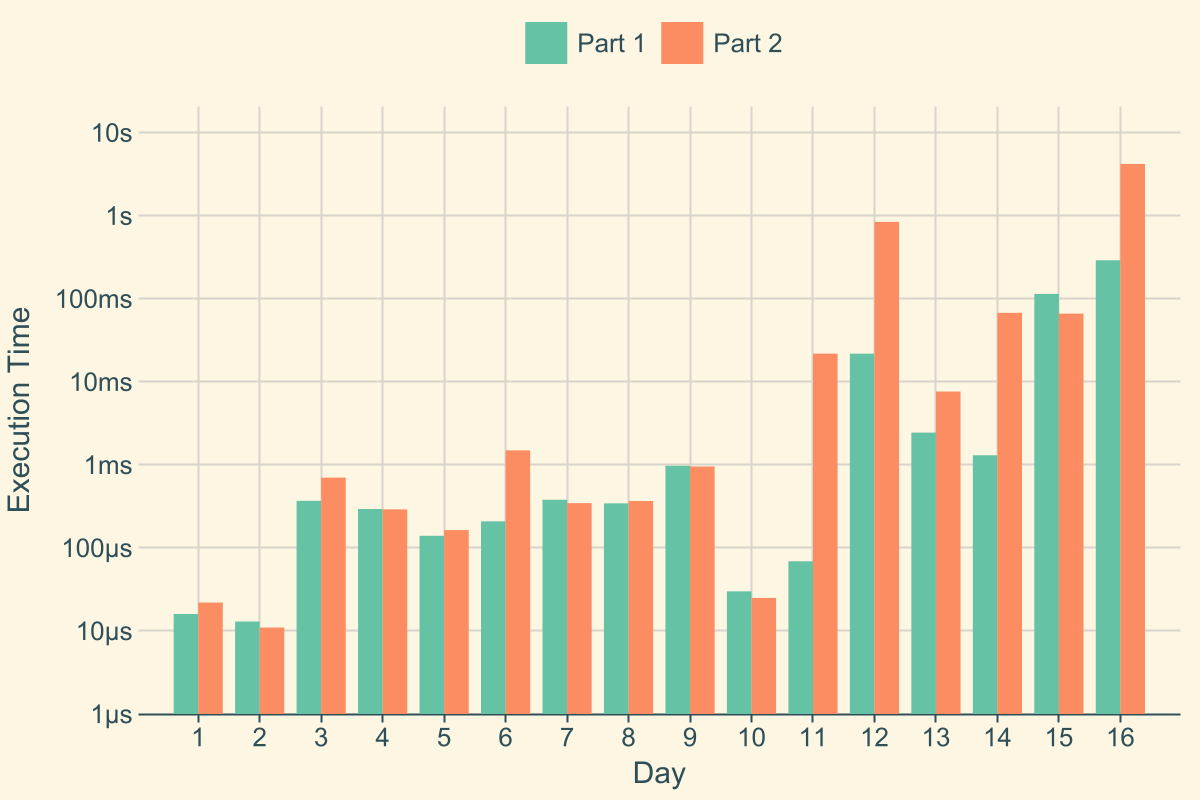
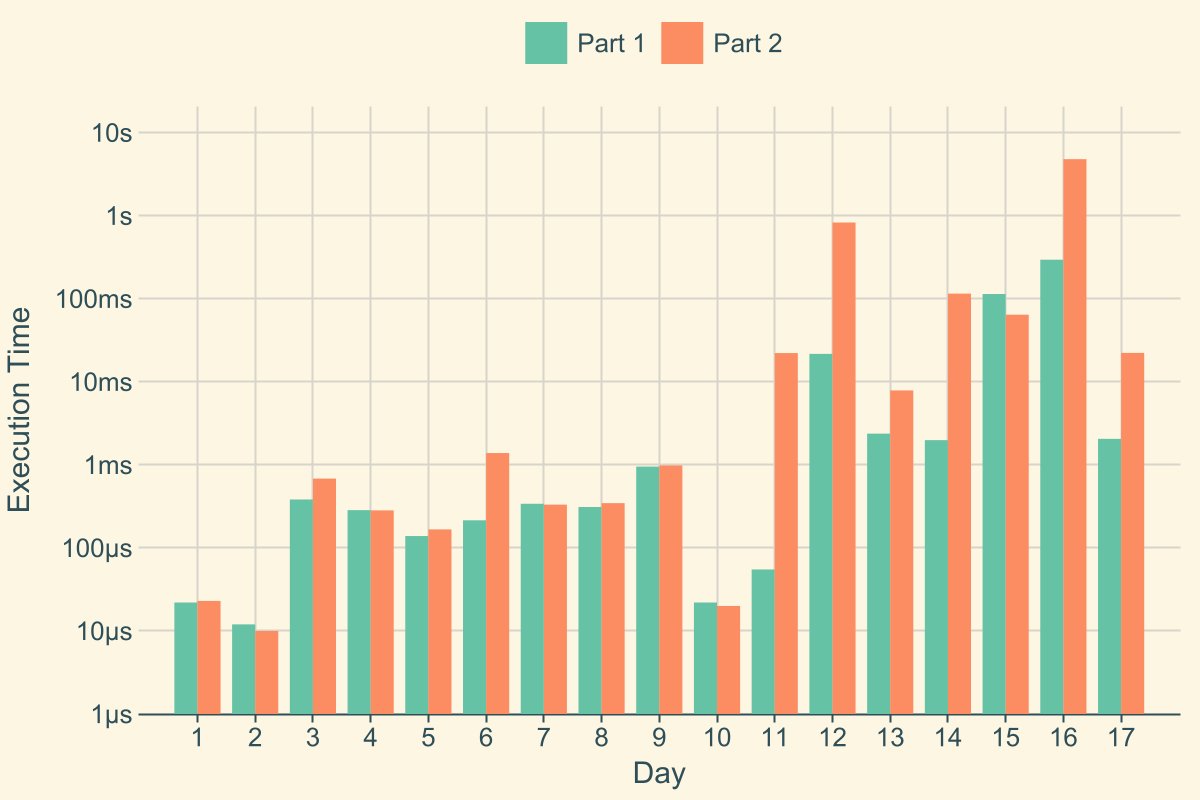
17 initial

Changed region(s): [[0.1233, 0.1875, 0.9558, 0.9375], [0.925, 0.9062, 0.9558, 0.9375]]

diff --git a/src/day17.rs b/src/day17.rs
@@ -1,0 +1,342 @@
+use std::cell::RefCell;
+use std::cmp::min;
+use std::collections::{HashMap, HashSet};
+use std::fmt::{Debug, Formatter};
+use std::ops::{Add, Neg, Sub};
+use std::usize;
+
+use crate::harness::{Day, Part};
+
+pub fn day17() -> Day<u32, u64> {
+    Day::new(17, Box::new(Part1 {}), Box::new(Part2 {}))
+}
+
+pub struct Part1;
+
+impl Part<u32> for Part1 {
+    fn expect_test(&self) -> u32 {
+        3068
+    }
+
+    fn solve(&self, input: &Vec<String>) -> u32 {
+        let vec = parse_input(input);
+        play(vec, 2022) as u32
+    }
+}
+
+pub struct Part2;
+
+impl Part<u64> for Part2 {
+    fn expect_test(&self) -> u64 {
+        1514285714288
+    }
+
+    fn solve(&self, input: &Vec<String>) -> u64 {
+        let vec = parse_input(input);
+        play(vec, 1000000000000)
+    }
+}
+
+fn play(directions: Vec<Point>, steps: u64) -> u64 {
+    let mut direction_index = 0;
+    let mut next_direction = move || {
+        let result = directions[direction_index].clone();
+        direction_index = (direction_index + 1) % directions.len();
+        result
+    };
+
+    let rocks = vec![RockShape::a(), RockShape::b(), RockShape::c(), RockShape::d(), RockShape::e()];
+    let occupied_per_rock_cycle: u32 = rocks.iter().map(|r| r.points.len() as u32).sum();
+    let n_rocks = rocks.len();
+    let mut rock_index = 0;
+    let mut next_rock = move || {
+        let result = rocks[rock_index].clone();
+        rock_index = (rock_index + 1) % rocks.len();
+        result
+    };
+
+    let map = Map::new();
+
+    let mut step = |search_cycles: bool| -> Option<usize> {
+        if search_cycles {
+            if let Some(cycle) = map.detect_cycle() {
+                return Some(cycle);
+            }
+        }
+
+        let rock = Rock::new(map.insertion_origin(), next_rock());
+
+        loop {
+            let direction = next_direction();
+            let can_be_pushed = rock.shape.points.iter().map(|p| *p + *rock.position.borrow() + direction).all(|p| {
+                !map.is_occupied(&p)
+            });
+            if can_be_pushed {
+                rock.translate(direction);
+            }
+
+            let can_fall = rock.shape.points.iter().map(|p| *p + *rock.position.borrow() + Point::DOWN).all(|p| {
+                !map.is_occupied(&p)
+            });
+            if can_fall {
+                rock.translate(Point::DOWN);
+            } else {
+                rock.shape.points.iter().map(|p| *p + *rock.position.borrow()).for_each(|p| {
+                    map.insert(p);
+                });
+                break;
+            }
+        }
+
+        None
+    };
+
+
+    let maybe_cycle =
+        (0..steps)
+            .find_map(|s| step(true).map(|cycle_len| (s, cycle_len)));
+
+    if let Some((n_steps, cycle_len)) = maybe_cycle {
+        let remaining_steps = steps - n_steps;
+
+        let occupied_in_last_rows = map.count_occupied_in_last_rows(cycle_len);
+        let cycle_len = ((occupied_in_last_rows / occupied_per_rock_cycle) as u64) * n_rocks as u64;
+
+        let residue = remaining_steps % cycle_len;
+
+        for _ in 0..residue {
+            step(false);
+        }
+
+        let y_before_cycle = *map.min_y.borrow();
+
+        for _ in 0..cycle_len {
+            step(false);
+        }
+
+        let y_after_cycle = *map.min_y.borrow();
+
+        let y_per_cycle = y_after_cycle - y_before_cycle;
+
+
+        let i = remaining_steps - residue;
+        let remaining_cycles = ((i) / cycle_len) as i64;
+        // println!(" occupied_in_last_rows     {}", occupied_in_last_rows);
+        // println!(" occupied_per_rock_cycle   {}", occupied_per_rock_cycle);
+        // println!(" steps_before_cycle_found  {}", n_steps);
+        // println!(" cycle_len                 {}", cycle_len);
+        // println!(" residue                   {}", residue);
+        // println!(" y_before_cycle            {}", y_before_cycle);
+        // println!(" y_after_cycle             {}", y_after_cycle);
+        // println!(" remaining_cycles          {}", remaining_cycles);
+        // println!(" y_per_cycle               {}", y_per_cycle);
+
+        1 - (y_before_cycle + remaining_cycles * y_per_cycle) as u64
+    } else {
+        let r = *map.min_y.borrow();
+        (1 - (r)) as u64
+    }
+}
+
+fn parse_input(input: &Vec<String>) -> Vec<Point> {
+    input
+        .first()
+        .unwrap()
+        .trim()
+        .chars()
+        .map(|c| match c {
+            '<' => Point::LEFT,
+            '>' => Point::RIGHT,
+            _ => panic!(),
+        })
+        .collect()
+}
+
+struct Map {
+    raw: RefCell<Vec<u8>>,
+    min_y: RefCell<i64>,
+}
+
+impl Map {
+    pub fn new() -> Self {
+        Self { raw: RefCell::new(vec![]), min_y: RefCell::new(1) }
+    }
+
+    fn is_occupied(&self, p: &Point) -> bool {
+        p.x < 0 || p.x > 6 || p.y > 0 || self.raw.borrow().get(-p.y as usize).map(|u| u & (1 << (p.x as u8)) != 0).unwrap_or(false)
+    }
+
+    fn insertion_origin(&self) -> Point {
+        p(2, *self.min_y.borrow() - 4)
+    }
+
+    fn insert(&self, p: Point) {
+        let new_min_y = min(*self.min_y.borrow(), p.y);
+
+        for _ in 0..-(new_min_y - *self.min_y.borrow()) {
+            self.raw.borrow_mut().push(0);
+        }
+
+        self.min_y.replace(new_min_y);
+
+        let i = &mut self.raw.borrow_mut()[-p.y as usize];
+        *i = *i | (1 << p.x)
+    }
+
+    fn count_occupied_in_last_rows(&self, n: usize) -> u32 {
+        self.raw.borrow().iter()
+            .rev()
+            .take(n)
+            .map(|u| u.count_ones())
+            .sum()
+    }
+
+    fn detect_cycle(&self) -> Option<usize> {
+        let arr = self.raw.borrow();
+        let y0 = arr.len() - 1;
+
+        if arr.len() < 100 {
+            return None;
+        }
+
+        'outer: for cycle_length in (5..(arr.len() / 4)).rev() {
+            for i in 0..cycle_length {
+                let i1 = arr[y0 - i];
+                let i2 = arr[y0 - i - cycle_length];
+                let i3 = arr[y0 - i - cycle_length * 2];
+                // println!();
+                // println!("{}", arr.len());
+                // println!("{}", cycle_length);
+                let i4 = arr[y0 - i - cycle_length * 3];
+
+                if i1 != i2 || i2 != i3 || i3 != i4 {
+                    continue 'outer;
+                }
+            }
+
+            return Some(cycle_length);
+        }
+
+        None
+    }
+}
+
+impl Debug for Map {
+    fn fmt(&self, f: &mut Formatter<'_>) -> std::fmt::Result {
+        let mut result = String::new();
+        for y in (*self.min_y.borrow() - 3)..=0 {
+            for x in -1..=7 {
+                if x == -1 || x == 7 {
+                    result.push('|');
+                } else if self.is_occupied(&p(x, y)) {
+                    result.push('#');
+                } else {
+                    result.push('.');
+                }
+            }
+            result.push('\n');
+        }
+
+        result.push_str("+-------+");
+
+
+        write!(f, "{}", result)
+    }
+}
+
+#[derive(Clone)]
+struct RockShape {
+    points: Vec<Point>,
+    width: i64,
+}
+
+impl RockShape {
+    pub fn new(points: Vec<Point>) -> Self {
+        let width = points.iter().map(|p| p.y).max().unwrap();
+
+        Self { points, width }
+    }
+
+    fn a() -> Self { RockShape::new(vec![p(0, 0), p(1, 0), p(2, 0), p(3, 0)]) }
+    fn b() -> Self { RockShape::new(vec![p(1, 0), p(0, -1), p(1, -1), p(2, -1), p(1, -2)]) }
+    fn c() -> Self { RockShape::new(vec![p(0, 0), p(1, 0), p(2, 0), p(2, -1), p(2, -2)]) }
+    fn d() -> Self { RockShape::new(vec![p(0, 0), p(0, -1), p(0, -2), p(0, -3)]) }
+    fn e() -> Self { RockShape::new(vec![p(0, 0), p(1, 0), p(0, -1), p(1, -1)]) }
+}
+
+#[derive(Clone)]
+struct Rock {
+    position: RefCell<Point>,
+    shape: RockShape,
+}
+
+impl Rock {
+    pub fn new(position: Point, shape: RockShape) -> Self {
+        Self { position: RefCell::new(position), shape }
+    }
+
+    fn width(&self) -> i64 {
+        self.shape.width
+    }
+
+    fn min_x(&self) -> i64 {
+        self.position.borrow().x
+    }
+
+    fn max_x(&self) -> i64 {
+        self.position.borrow().x + self.width() - 1
+    }
+
+    fn translate(&self, d: Point) {
+        let new_position = *self.position.borrow() + d;
+        self.position.replace(new_position);
+    }
+}
+
+#[derive(Copy, Clone, Debug, Eq, PartialEq, Hash)]
+struct Point {
+    x: i64,
+    y: i64,
+}
+
+const fn p(x: i64, y: i64) -> Point {
+    Point { x, y }
+}
+
+impl Add<Point> for Point {
+    type Output = Self;
+
+    fn add(self, rhs: Point) -> Self::Output {
+        p(self.x + rhs.x, self.y + rhs.y)
+    }
+}
+
+impl Sub<Point> for Point {
+    type Output = Self;
+
+    fn sub(self, rhs: Point) -> Self::Output {
+        p(self.x - rhs.x, self.y - rhs.y)
+    }
+}
+
+impl Neg for Point {
+    type Output = Self;
+
+    fn neg(self) -> Self::Output {
+        p(-self.x, -self.y)
+    }
+}
+
+impl Point {
+    fn manhattan_distance(&self, rhs: &Self) -> i64 {
+        (self.x - rhs.x).abs() + (self.y - rhs.y).abs()
+    }
+
+    fn swap(&self) -> Self {
+        p(self.y, self.x)
+    }
+
+    const LEFT: Self = p(-1, 0);
+    const RIGHT: Self = p(1, 0);
+    const DOWN: Self = p(0, 1);
+}

diff --git a/src/harness.rs b/src/harness.rs
@@ -43,7 +43,7 @@ impl<R1: AocResult + 'static, R2: AocResult+ 'static> Day<R1, R2> {
     fn run_part_test<R: AocResult>(&self, id: u8, part: &Box<dyn Part<R>>) -> Duration {
         let (actual, duration) = Self::timed(|| { part.solve(&self.test_input) });
         let expected = part.expect_test();
-        assert_eq!(actual, expected, "Part {} test failed: Expected {:?} but got {:?}", id, expected, actual);
+        assert_eq!(actual, expected, "Part {} test failed after {:?}: Expected {:?} but got {:?}", id, duration, expected, actual);
         println!("{}", format!("Part {} test was {} {:>10}", id, "successful".on_bright_green(), format!("{:?}", duration).purple()));
         duration
     }

diff --git a/src/main.rs b/src/main.rs
@@ -26,7 +26,7 @@ use crate::day13::day13;
 use crate::day14::day14;
 use crate::day15::day15;
 use crate::day16::day16;
-// use crate::day17::day17;
+use crate::day17::day17;
 // use crate::day18::day18;
 // use crate::day19::day19;
 // use crate::day20::day20;
@@ -54,7 +54,7 @@ mod day13;
 mod day14;
 mod day15;
 mod day16;
-// mod day17;
+mod day17;
 // mod day18;
 // mod day19;
 // mod day20;
@@ -82,7 +82,7 @@ fn main() {
         day14().f(),
         day15().f(),
         day16().f(),
-        // day17().f(),
+        day17().f(),
         // day18().f(),
         // day19().f(),
         // day20().f(),
